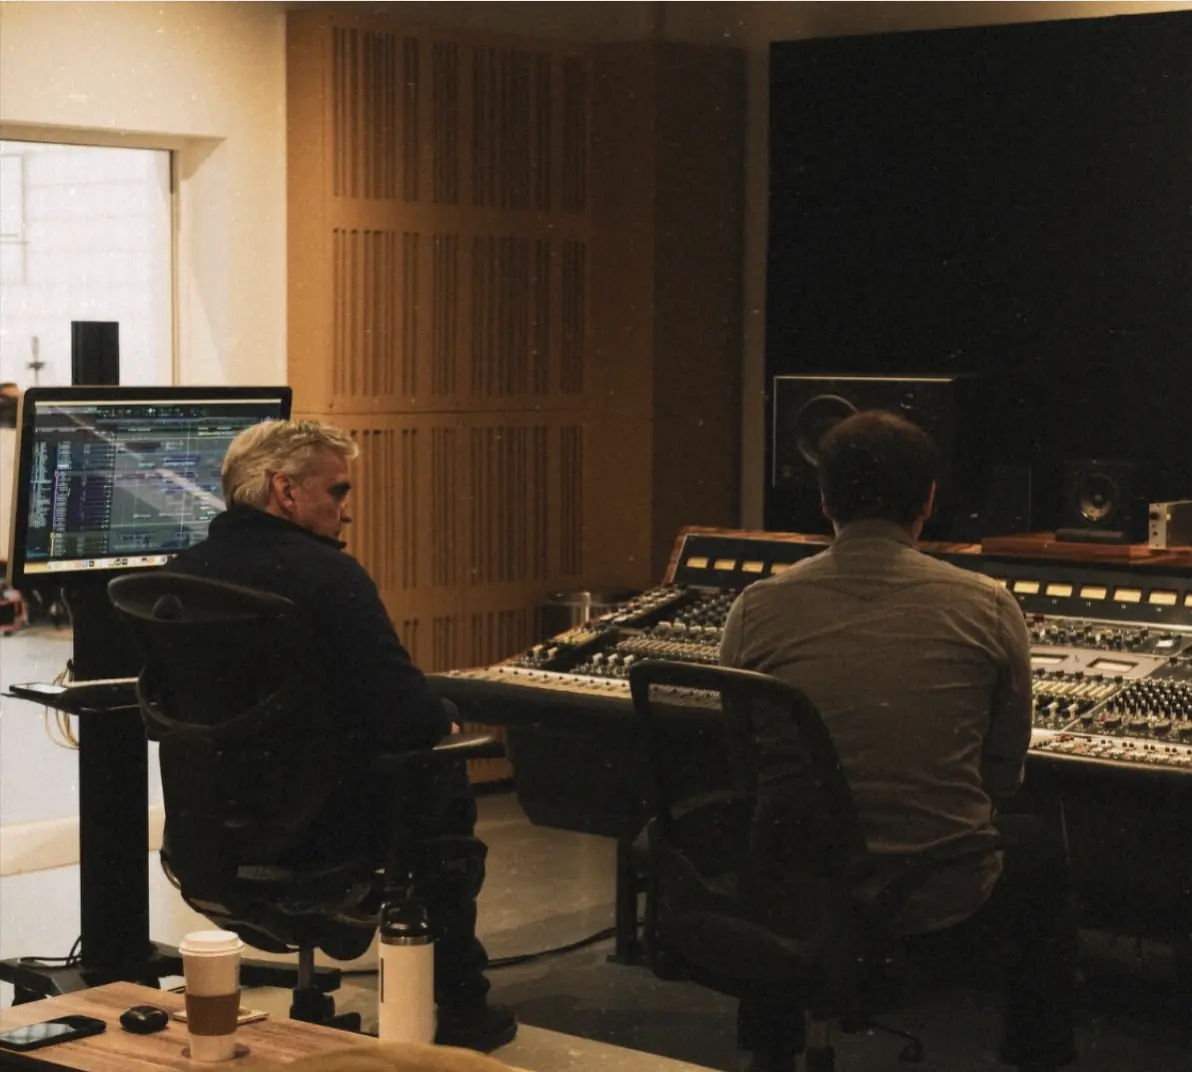
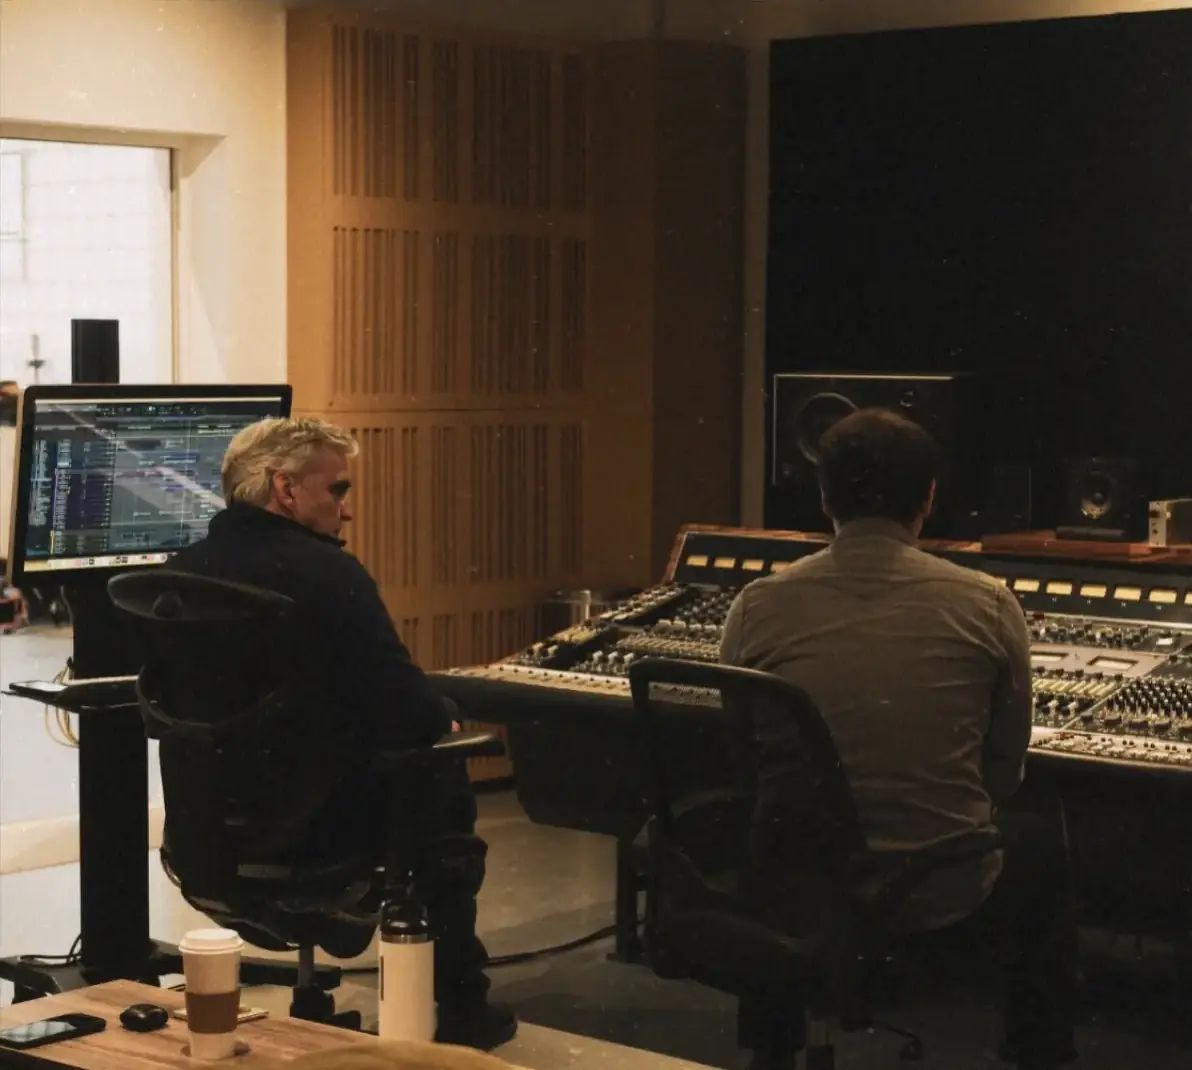
Trim the white line off the top of eight gallery photos
The Instagram crops caught one or two rows of the app's white page above
the photo. Each affected image loses its top two rows, and its height in the
markup is updated to match.

Claude-Session: https://claude.ai/code/session_01Twp4c9gSpsffxQi77XKYoe

diff --git a/index.html b/index.html
@@ -405,25 +405,25 @@ canvas{display:block}
       <p class="rv" style="--d:.1s">From the studio and the living room. Drag the strip, or step through it.</p>
     </div>
     <div class="rail" id="rail" tabindex="0" aria-label="Gallery, scroll sideways">
-      <figure><img src="assets/gallery/booth.webp" width="937" height="681" loading="lazy" decoding="async" alt="Paul in a vocal booth with an acoustic guitar and headphones, flashing a peace sign"><figcaption class="mono dim">In the booth · August 2026</figcaption></figure>
-      <figure><img src="assets/gallery/radio-flyer.webp" width="937" height="681" loading="lazy" decoding="async" alt="Two musicians talking in a studio lit with blue lights"><figcaption class="mono dim">With Radio Flyer Records · August 2026</figcaption></figure>
-      <figure><img src="assets/gallery/console.webp" width="1192" height="1072" loading="lazy" decoding="async" alt="Two people at a large mixing console in a recording studio"><figcaption class="mono dim">At the console · Summer 2026</figcaption></figure>
+      <figure><img src="assets/gallery/booth.webp" width="937" height="679" loading="lazy" decoding="async" alt="Paul in a vocal booth with an acoustic guitar and headphones, flashing a peace sign"><figcaption class="mono dim">In the booth · August 2026</figcaption></figure>
+      <figure><img src="assets/gallery/radio-flyer.webp" width="937" height="679" loading="lazy" decoding="async" alt="Two musicians talking in a studio lit with blue lights"><figcaption class="mono dim">With Radio Flyer Records · August 2026</figcaption></figure>
+      <figure><img src="assets/gallery/console.webp" width="1192" height="1070" loading="lazy" decoding="async" alt="Two people at a large mixing console in a recording studio"><figcaption class="mono dim">At the console · Summer 2026</figcaption></figure>
       <figure><img src="assets/gallery/home-electric.webp" width="1206" height="678" loading="lazy" decoding="async" alt="Black and white shot of Paul playing electric guitar at home, a Skeletor figure in the foreground"><figcaption class="mono dim">Home recording · May 2026</figcaption></figure>
       <figure><img src="assets/gallery/home-acoustic.webp" width="937" height="680" loading="lazy" decoding="async" alt="Paul playing a sticker-covered acoustic guitar by a sunny window"><figcaption class="mono dim">Acoustic, at home · May 2026</figcaption></figure>
       <figure><img src="assets/gallery/wing.webp" width="1068" height="679" loading="lazy" decoding="async" alt="Black and white view of a plane wing above the clouds"><figcaption class="mono dim">In the air · March 2026</figcaption></figure>
-      <figure><img src="assets/gallery/speakers.webp" width="937" height="679" loading="lazy" decoding="async" alt="Two studio monitors in front of a glitching wall of coloured pixels"><figcaption class="mono dim">Coming along nicely · March 2026</figcaption></figure>
+      <figure><img src="assets/gallery/speakers.webp" width="937" height="677" loading="lazy" decoding="async" alt="Two studio monitors in front of a glitching wall of coloured pixels"><figcaption class="mono dim">Coming along nicely · March 2026</figcaption></figure>
       <figure><img src="assets/gallery/blackbird-gibson.webp" width="1068" height="1599" loading="lazy" decoding="async" alt="A worn vintage sunburst Gibson acoustic standing in its case in front of a wooden diffuser wall"><figcaption class="mono dim">Blackbird Studio · March 2026</figcaption></figure>
       <figure><img src="assets/gallery/blackbird-stairs.webp" width="1036" height="1599" loading="lazy" decoding="async" alt="A chandelier over a wooden staircase with wrought-iron railings outside Studio D"><figcaption class="mono dim">Outside Studio D, Blackbird · March 2026</figcaption></figure>
-      <figure><img src="assets/gallery/headstock.webp" width="1036" height="1601" loading="lazy" decoding="async" alt="A guitar headstock pointed at a mixing desk in a studio rack"><figcaption class="mono dim">Headstock and mixer, Blackbird · March 2026</figcaption></figure>
+      <figure><img src="assets/gallery/headstock.webp" width="1036" height="1599" loading="lazy" decoding="async" alt="A guitar headstock pointed at a mixing desk in a studio rack"><figcaption class="mono dim">Headstock and mixer, Blackbird · March 2026</figcaption></figure>
       <figure><img src="assets/gallery/guitar-wall.webp" width="1062" height="680" loading="lazy" decoding="async" alt="Paul playing a seafoam Jazzmaster in front of a wall of hanging guitars"><figcaption class="mono dim">Guitar wall · August 2025</figcaption></figure>
       <figure><img src="assets/gallery/acoustic-tribute.webp" width="1068" height="680" loading="lazy" decoding="async" alt="Paul playing a black Gibson acoustic at a microphone in his home studio"><figcaption class="mono dim">Acoustic tribute · July 2025</figcaption></figure>
       <figure><img src="assets/gallery/hollow-body.webp" width="1068" height="679" loading="lazy" decoding="async" alt="Black and white shot of Paul playing a hollow-body electric guitar at the microphone"><figcaption class="mono dim">Covers archive · July 2025</figcaption></figure>
       <figure><img src="assets/gallery/black-acoustic.webp" width="1068" height="679" loading="lazy" decoding="async" alt="Black and white shot of Paul playing an acoustic guitar in his home studio"><figcaption class="mono dim">Home studio · March 2025</figcaption></figure>
       <figure><img src="assets/gallery/keys.webp" width="1068" height="679" loading="lazy" decoding="async" alt="Black and white close-up of a hand on keyboard keys by a window"><figcaption class="mono dim">On the keys · August 2024</figcaption></figure>
-      <figure><img src="assets/gallery/abbey-road-door.webp" width="879" height="1506" loading="lazy" decoding="async" alt="The front steps and open wooden door of Abbey Road Studios in London"><figcaption class="mono dim">Abbey Road Studios · June 2024</figcaption></figure>
-      <figure><img src="assets/gallery/abbey-road-gate.webp" width="1042" height="1501" loading="lazy" decoding="async" alt="A Beatles Revolver guitar strap hung on the graffiti-covered gate outside Abbey Road Studios"><figcaption class="mono dim">At the gate, Abbey Road · June 2024</figcaption></figure>
+      <figure><img src="assets/gallery/abbey-road-door.webp" width="879" height="1504" loading="lazy" decoding="async" alt="The front steps and open wooden door of Abbey Road Studios in London"><figcaption class="mono dim">Abbey Road Studios · June 2024</figcaption></figure>
+      <figure><img src="assets/gallery/abbey-road-gate.webp" width="1042" height="1499" loading="lazy" decoding="async" alt="A Beatles Revolver guitar strap hung on the graffiti-covered gate outside Abbey Road Studios"><figcaption class="mono dim">At the gate, Abbey Road · June 2024</figcaption></figure>
       <figure><img src="assets/gallery/vocal-take.webp" width="1062" height="681" loading="lazy" decoding="async" alt="Black and white shot of Paul singing into a microphone in front of a wall of acoustic foam"><figcaption class="mono dim">Vocal take · February 2024</figcaption></figure>
-      <figure><img src="assets/gallery/es-175.webp" width="1206" height="1506" loading="lazy" decoding="async" alt="A red Gibson ES-175 hollow-body guitar leaning against shelves of vinyl records"><figcaption class="mono dim">Gibson ES-175, a gift from his uncle</figcaption></figure>
+      <figure><img src="assets/gallery/es-175.webp" width="1206" height="1504" loading="lazy" decoding="async" alt="A red Gibson ES-175 hollow-body guitar leaning against shelves of vinyl records"><figcaption class="mono dim">Gibson ES-175, a gift from his uncle</figcaption></figure>
       <figure><img src="assets/gallery/trampoline.webp" width="1206" height="1723" loading="lazy" decoding="async" alt="Paul mid-air doing the splits above a backyard trampoline"><figcaption class="mono dim">Weekend mode</figcaption></figure>
     </div>
     <div class="ctl wrap">
